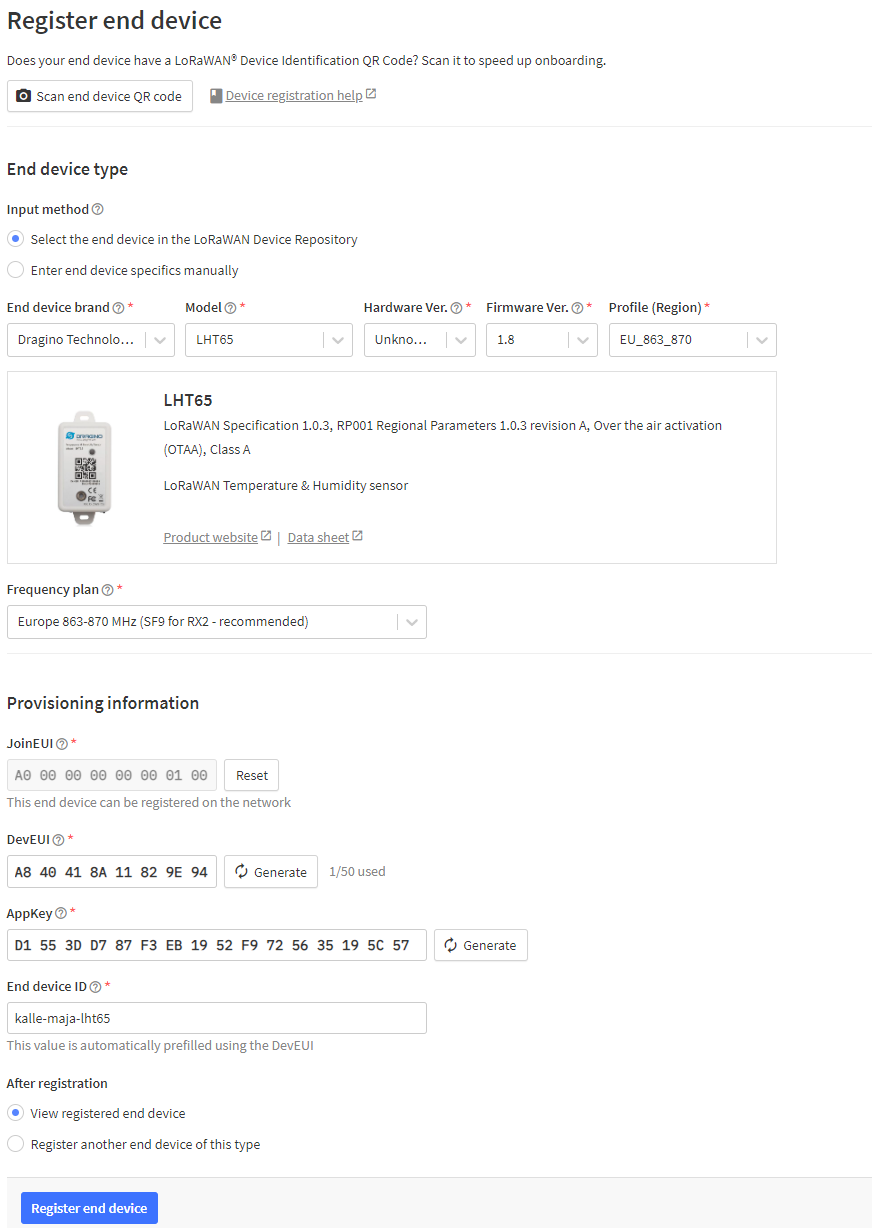
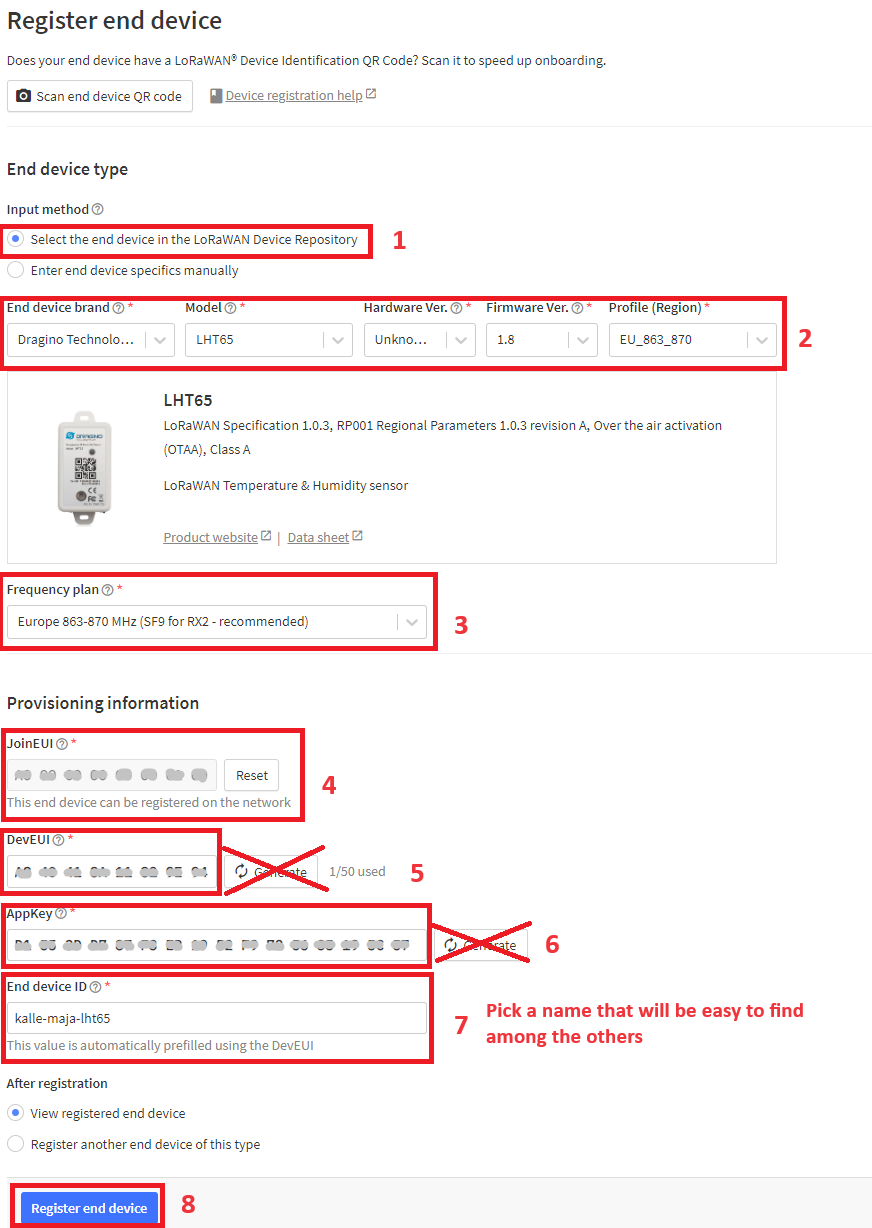
more clear pic and better inst

diff --git a/onboard.md b/onboard.md
@@ -13,7 +13,7 @@ Go to 'applications' and click on the one called `Basic Workshop`.Once there, na
 |dragino|LHT65|"Unknown"|1.8|EU_863_870|Europe 863-870 MHz(SF9 for RX2 - recommended)|
 
 
-Enter the `JoinEUI/AppEUI`, `DevEUI` and the `AppKey` that are provided. Make sure that you change `End device ID` to something that is easy to remember, for example your names. Click `Register end device`.
+Enter the `JoinEUI/AppEUI`, `DevEUI` and the `AppKey` that are provided. ***Do not use "generate".*** Make sure that you change `End device ID` to something that is easy to remember, for example your names. Click `Register end device`.
 
 Below is an example of how it can look while registering a LHT65. 
 
